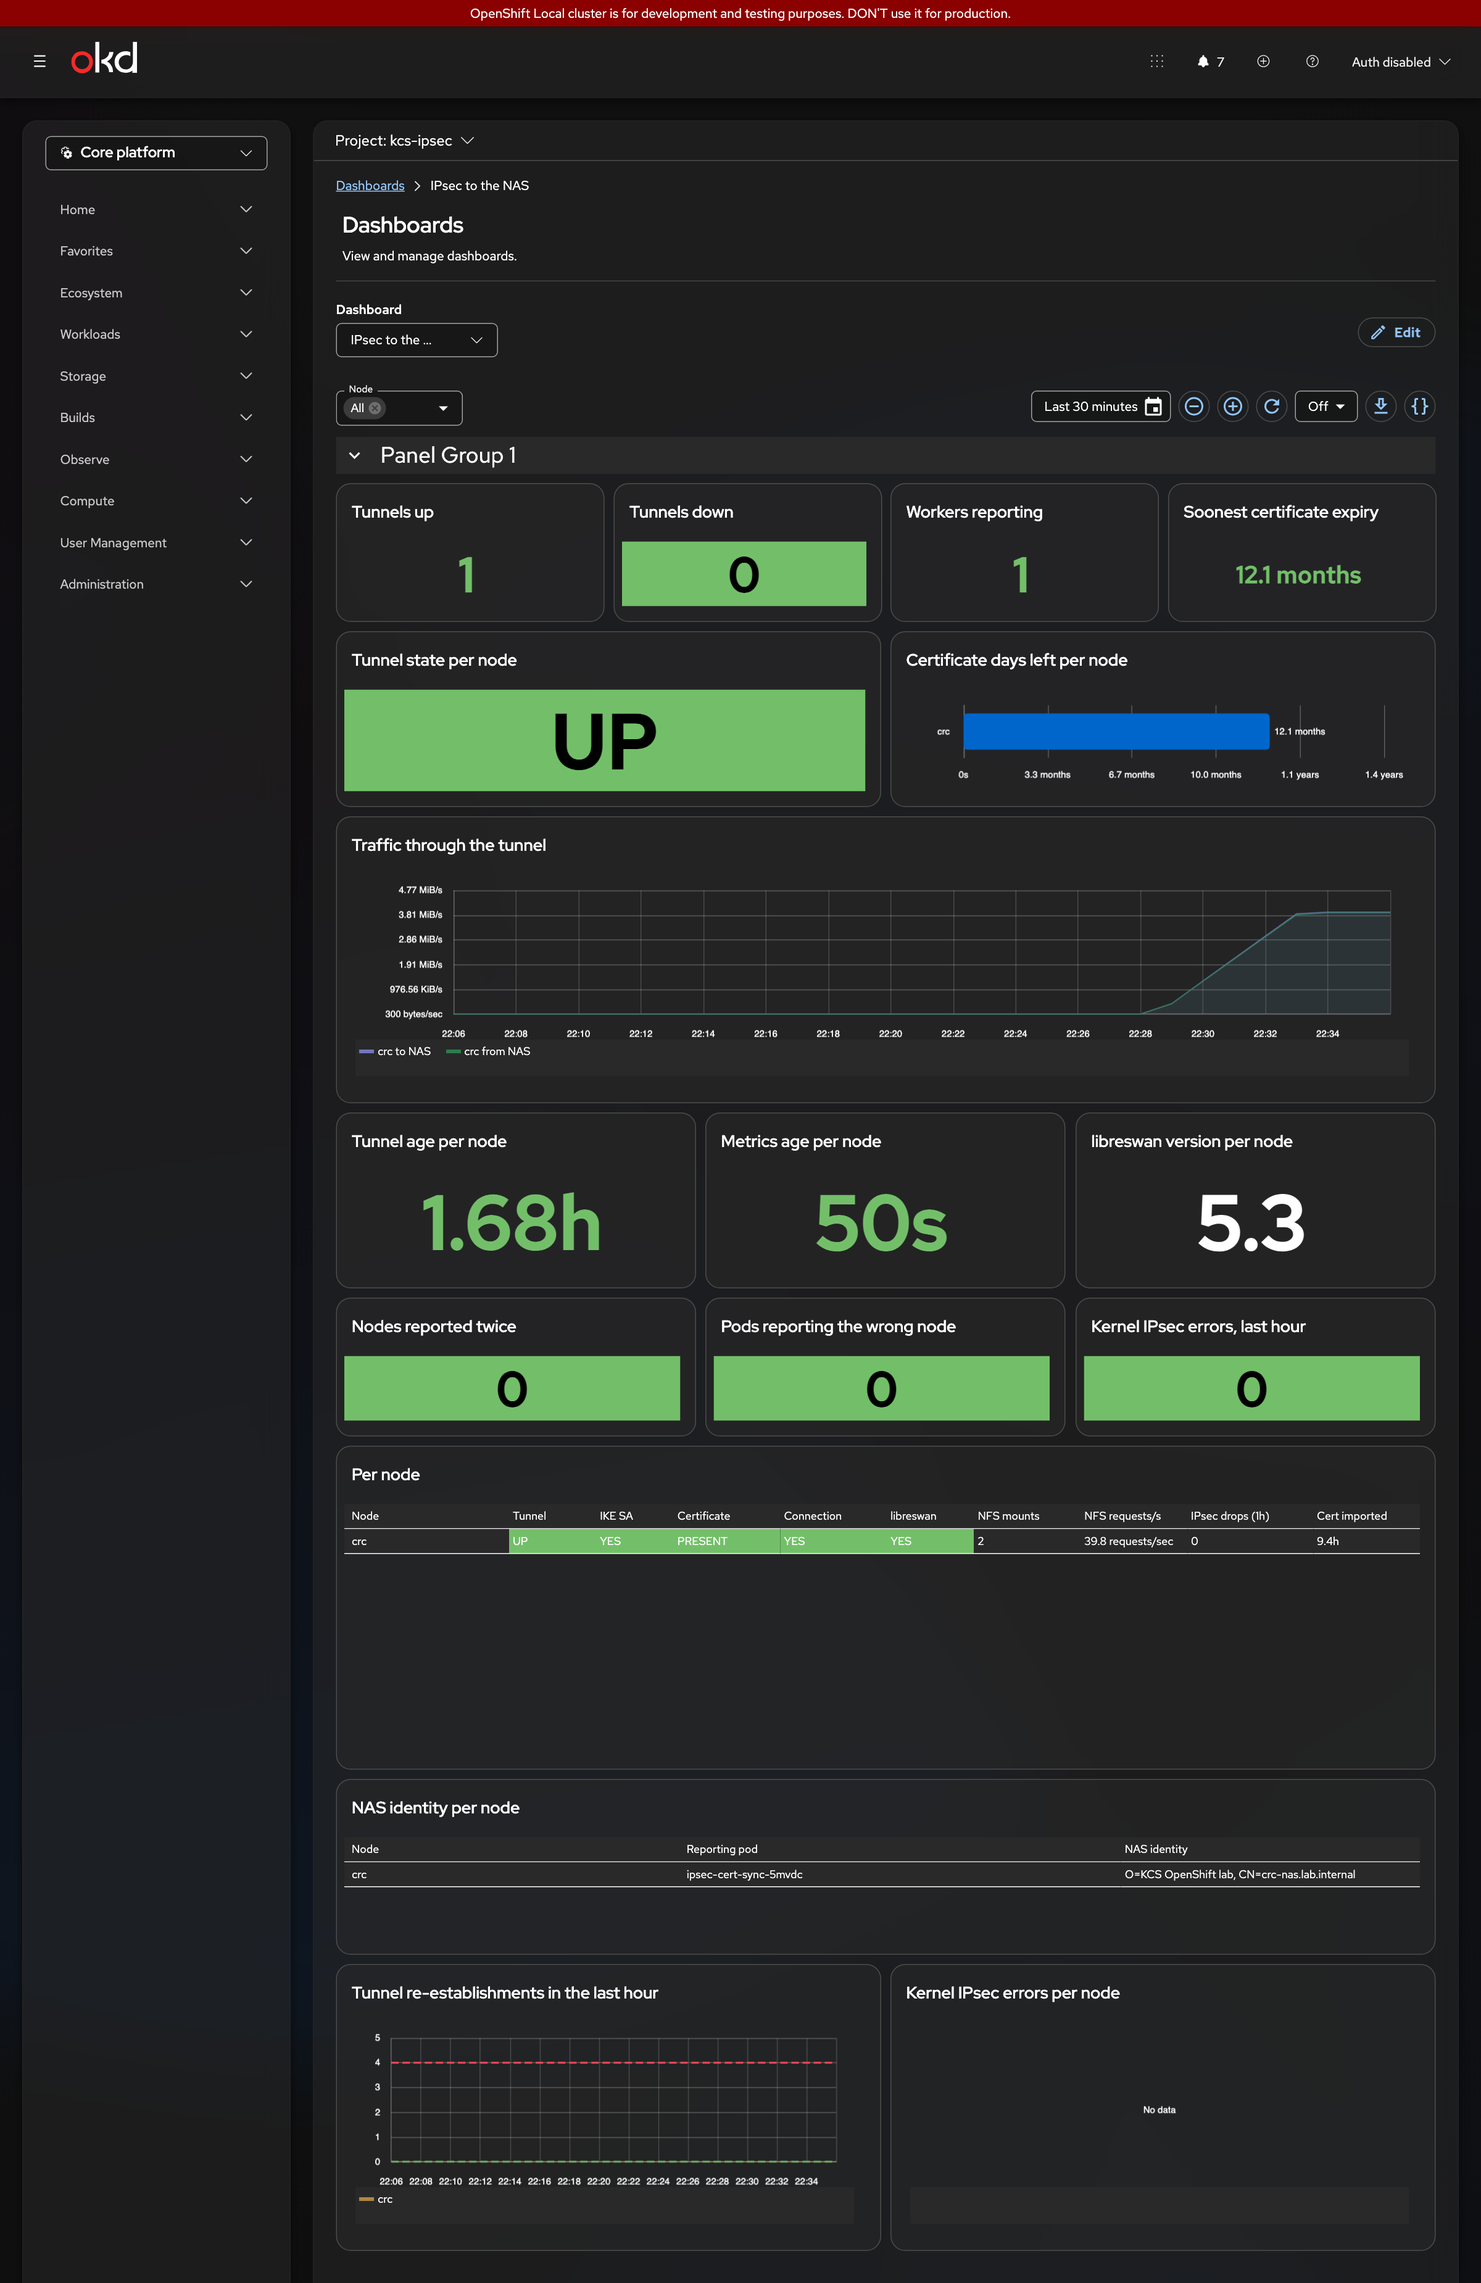
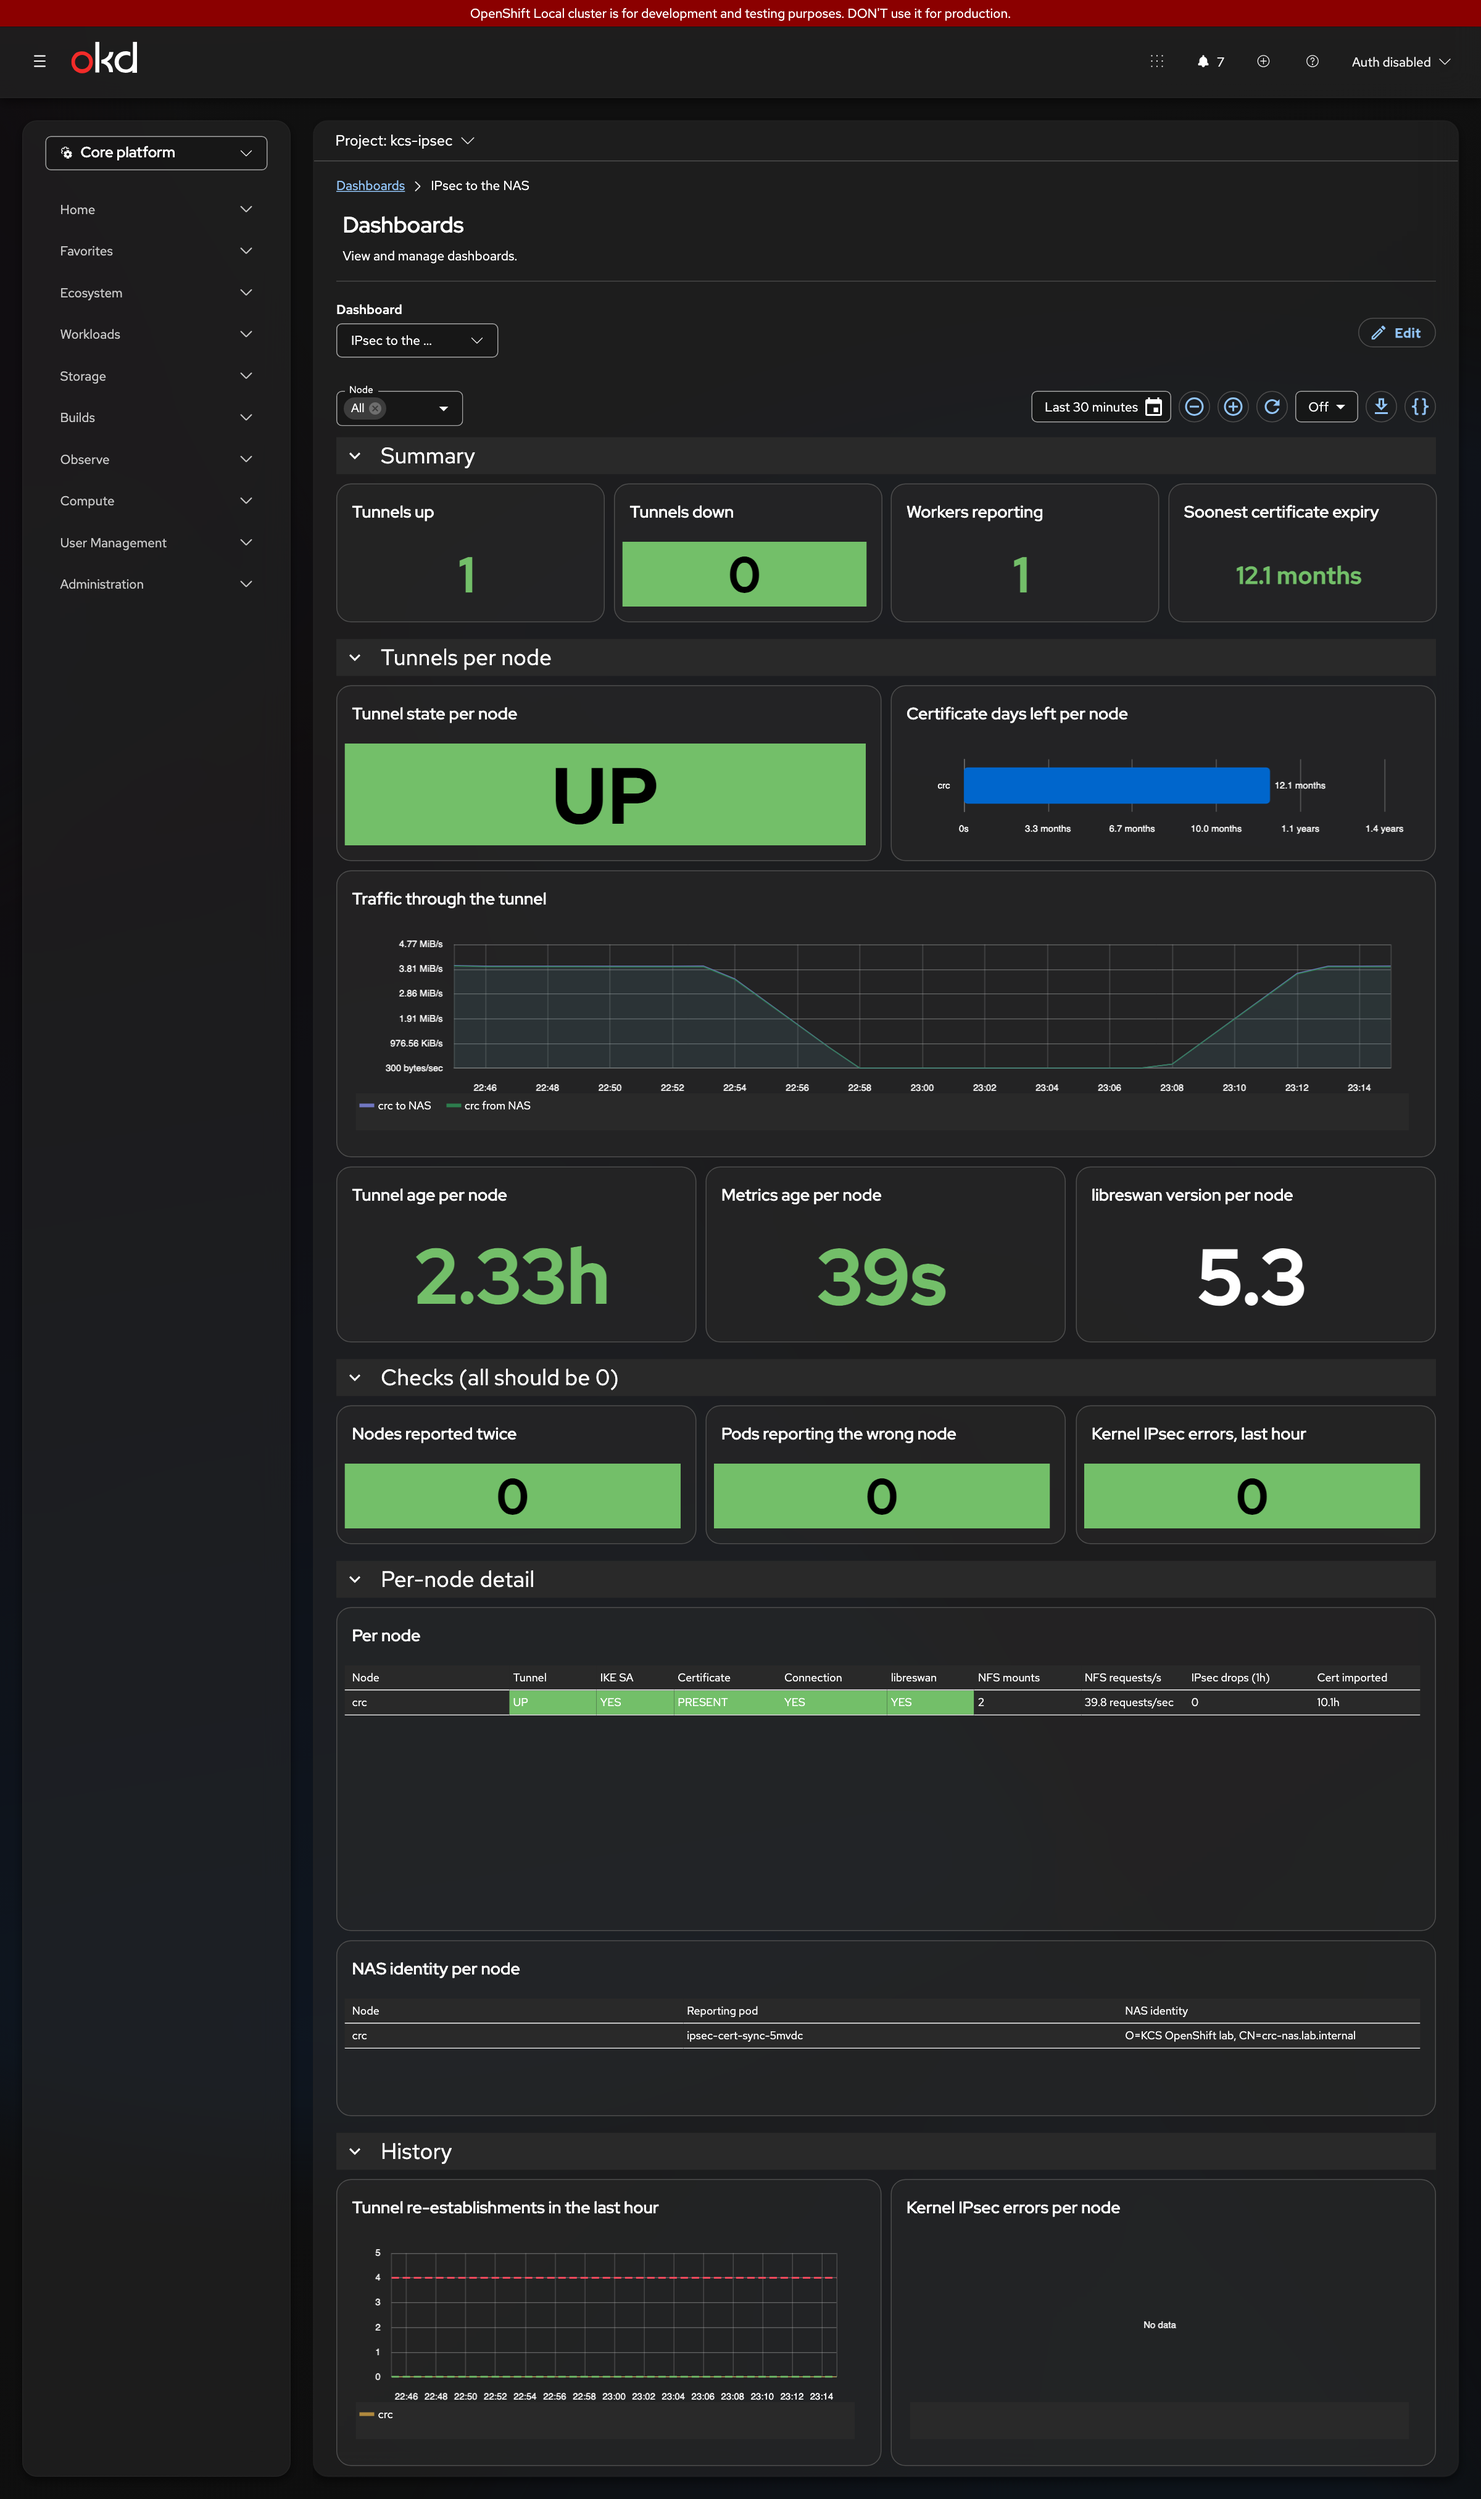
Doc 61: the five sections, retaken in the console; generator writes manifest 30
Doc 61 describes the dashboard by section (Summary, Tunnels per node,
Checks (all should be 0), Per-node detail, History) and the question each
answers, and how to add a panel or a section through Grafana rows.

Capture 6 is retaken on CRC after the change (both themes, all five
sections, a fresh load run). Evidence 43 records what percli makes of rows,
the before/after panel comparison (17 panels, none changed), the CRC
status, and the same rows in a throwaway Grafana 13.2.3.

scripts/perses-dashboard.sh now also refreshes the Grafana ConfigMap in
manifests/ (byte-identical on rerun; refuses a manifest without the key),
so one command updates everything generated from the one source.

diff --git a/docs/61-perses-dashboard-review.md b/docs/61-perses-dashboard-review.md
@@ -10,24 +10,23 @@ Everything below was measured on CRC 4.22.7 with COO 1.5.3 on 2026-10-03 and 202
 <picture>
   <source media="(prefers-color-scheme: dark)" srcset="images/crc/42-console-perses-ipsec-nas.dark.png">
   <source media="(prefers-color-scheme: light)" srcset="images/crc/42-console-perses-ipsec-nas.light.png">
-  <img alt="The OpenShift console, Observe, Dashboards, project kcs-ipsec, dashboard IPsec to the NAS, node filter All, last 30 minutes: tunnels up 1, down 0, workers reporting 1, soonest certificate expiry 12.1 months, tunnel state UP in green, certificate days left per node 12.1 months as a bar, traffic through the tunnel rising to about 3.8 MiB/s when the load starts, tunnel age 1.68h, metrics age 50s, libreswan version 5.3, nodes reported twice 0, pods reporting the wrong node 0, kernel IPsec errors last hour 0, a per-node table with one row for crc (UP, YES, PRESENT, YES, YES, 2 NFS mounts, 39.8 requests/sec, 0 drops, certificate imported 9.4h ago), a NAS identity table showing crc, ipsec-cert-sync-5mvdc and O=KCS OpenShift lab, CN=crc-nas.lab.internal, tunnel re-establishments 0 under a dashed threshold at 4, and kernel IPsec errors per node showing No data." src="images/crc/42-console-perses-ipsec-nas.light.png">
+  <img alt="The OpenShift console, Observe, Dashboards, project kcs-ipsec, dashboard IPsec to the NAS, node filter All, last 30 minutes, in five sections. Summary: tunnels up 1, down 0, workers reporting 1, soonest certificate expiry 12.1 months. Tunnels per node: tunnel state UP in green, certificate time left 12.1 months as a bar, traffic through the tunnel at about 3.8 MiB/s during two load runs, tunnel age 2.33h, metrics age 39s, libreswan version 5.3. Checks (all should be 0): nodes reported twice 0, pods reporting the wrong node 0, kernel IPsec errors last hour 0. Per-node detail: one row for crc (UP, YES, PRESENT, YES, YES, 2 NFS mounts, 39.8 requests/sec, 0 drops, certificate imported 10.1h ago), and the NAS identity table showing crc, ipsec-cert-sync-5mvdc and O=KCS OpenShift lab, CN=crc-nas.lab.internal. History: tunnel re-establishments 0 under a dashed threshold at 4, and kernel IPsec errors per node showing No data." src="images/crc/42-console-perses-ipsec-nas.light.png">
 </picture>
 <!-- markdownlint-enable MD033 -->
 
-*Capture 6. **Observe → Dashboards (Perses)**, project `kcs-ipsec`: the dashboard the chart ships, on CRC's data. "No data" on the last panel means no kernel IPsec errors: it shows only error counters above 0. The console shell here is the community (OKD) build of the same console, `quay.io/openshift/origin-console:4.22`, run on a laptop against CRC with sign-in turned off (hence the `okd` logo and "Auth disabled"). The Perses plugin, the Perses server, the dashboard and the data are CRC's own ([evidence 42](evidence/crc/42-console-perses-capture.txt)).*
+*Capture 6. **Observe → Dashboards (Perses)**, project `kcs-ipsec`: the dashboard the chart ships, in its five sections, on CRC's data. "No data" on the last panel means no kernel IPsec errors: it shows only error counters above 0. The console shell here is the community (OKD) build of the same console, `quay.io/openshift/origin-console:4.22`, run on a laptop against CRC with sign-in turned off (hence the `okd` logo and "Auth disabled"). The Perses plugin, the Perses server, the dashboard and the data are CRC's own ([evidence 42](evidence/crc/42-console-perses-capture.txt)).*
 
-What you can read off it, top to bottom:
+The dashboard has five sections, top to bottom. Each answers one question:
 
-| Row | It tells you |
-|---|---|
-| Tunnels up / down, workers reporting, soonest certificate expiry | The cluster in four numbers |
-| Tunnel state per node, certificate time left | Each node's tunnel and certificate |
-| Traffic through the tunnel | NFS traffic to and from the NAS, per node |
-| Tunnel age, metrics age, libreswan version | Recent restarts, a stopped collector, the version running |
-| Nodes reported twice, pods reporting the wrong node, kernel IPsec errors | Must all be 0 (doc 60, *How each node's data stays its own*) |
-| **Per node** | One row per node: **why** a tunnel is down (no certificate, no connection, no IKE SA, libreswan not answering), NFS mounts and requests, IPsec drops, last certificate import |
-| NAS identity per node | Which pod reports each node, and the identity the NAS presented |
-| Tunnel re-establishments, kernel IPsec errors per node | A tunnel that keeps restarting (alert above 3 an hour); drops over time |
+| Section | Panels | The question it answers |
+|---|---|---|
+| **Summary** | Tunnels up, tunnels down, workers reporting, soonest certificate expiry | Is anything wrong? |
+| **Tunnels per node** | Tunnel state, certificate time left, traffic to and from the NAS, tunnel age, metrics age, libreswan version | Which node, and how is it doing? A young tunnel age means a recent restart; an old metrics age, a stopped collector |
+| **Checks (all should be 0)** | Nodes reported twice, pods reporting the wrong node, kernel IPsec errors in the last hour | Can these numbers be trusted? (doc 60, *How each node's data stays its own*) |
+| **Per-node detail** | **Per node** table: one row per node; NAS identity per node | **Why** a tunnel is down (no certificate, no connection, no IKE SA, libreswan not answering), NFS mounts and requests, IPsec drops, last certificate import; which pod reports each node, and the identity the NAS presented |
+| **History** | Tunnel re-establishments in the last hour, kernel IPsec errors per node | Is a tunnel flapping (alert above 3 an hour), and are errors growing? "No data" there means no errors: it shows only counters above 0 |
+
+Each section folds with the arrow beside its title; all are open when the dashboard loads.
 
 ## How it works
 
@@ -142,24 +141,24 @@ A namespace-only data source becomes possible only if Perses learns to query wit
 
 The Grafana dashboard, `charts/ipsec-nas/files/ipsec-nas.json`, is the **one source**. The Perses dashboard is **generated** from it; never edit `ipsec-nas.perses.json` by hand.
 
-1. Edit `charts/ipsec-nas/files/ipsec-nas.json`, for example in a Grafana, and export the JSON.
+1. Edit `charts/ipsec-nas/files/ipsec-nas.json`, for example in a Grafana, and export the JSON. The sections are Grafana **rows**: put a new panel under the row whose question it answers, and add a row for a new question. Keep rows expanded; a row saved collapsed becomes a folded section in Perses too.
 2. Regenerate, from the repository root. This needs `percli` 0.54.0 with its plugins unpacked ([how to install it](https://github.com/ephico2real2/openshift-coo-helm/blob/main/docs/percli.md)):
 
    ```bash
    scripts/perses-dashboard.sh     # PERCLI=... PERSES_PLUGINS=... to point at another percli
    ```
 
-   It writes `charts/ipsec-nas/files/ipsec-nas.perses.json` and `manifests/option-b-per-node-certs/33-perses-dashboard.yaml`.
-3. Run `tests/test-chart.sh`, which keeps the chart and the manifest identical, and commit both files with the Grafana one.
+   It writes `charts/ipsec-nas/files/ipsec-nas.perses.json` and `manifests/option-b-per-node-certs/33-perses-dashboard.yaml`, and refreshes the Grafana ConfigMap `manifests/option-b-per-node-certs/30-grafana-dashboard.yaml`.
+3. Run `tests/test-chart.sh`, which keeps the chart and the manifests identical, and commit all of them with the Grafana one.
 
 **What the generator fixes after `percli`** (`scripts/perses-dashboard-fix.py`; each fix is measured in Appendix A.5):
 - every query and the **Node** filter name the data source `ipsec-nas-thanos`;
-- the per-node table keeps one row per node, and the NAS identity moves to its own panel;
+- the per-node table keeps one row per node, and the NAS identity moves to its own panel, under it in **Per-node detail**;
 - the libreswan panel shows the version;
 - the certificate panels count days;
 - it **refuses** output in which `percli` produced placeholders, which happens when the plugins are not unpacked.
 
-If the Grafana dashboard's panels change shape (more panels, a moved table), the generator stops with a message naming what to update.
+The generator finds panels by their **title** and sections by theirs: `percli` names panels after their section (`0_3`, `3_0`, …), so those names change whenever a section is added. If a panel or section it fixes is renamed, or the panels change shape (more panels, a moved table), it stops with a message naming what to update.
 
 ## Troubleshooting
 
